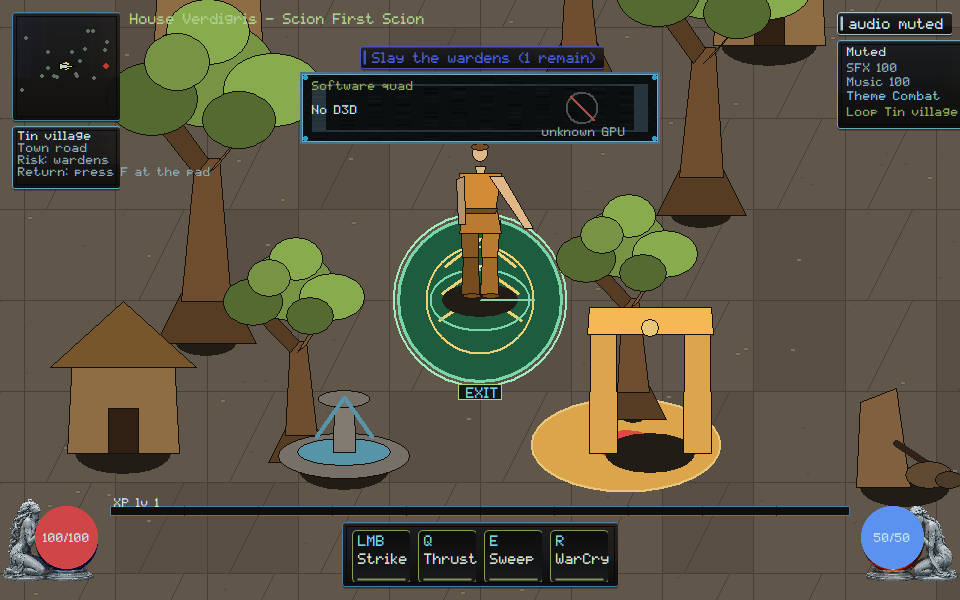
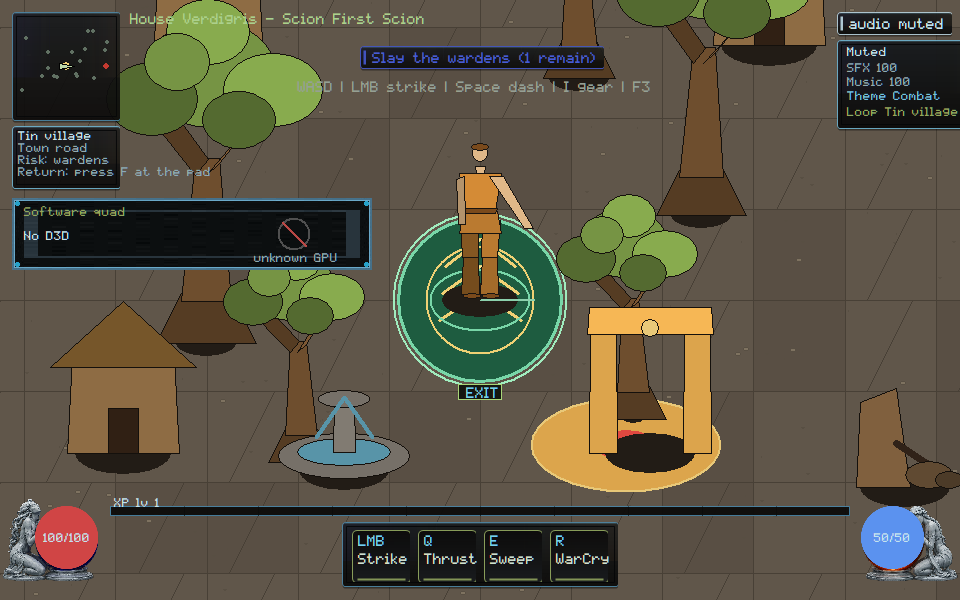
native: park Software quad off WASD and Tin village so covering combat HUD cannot certify

Changed region(s): [[0.0, 0.33, 0.4062, 0.45], [0.3125, 0.12, 0.6875, 0.24]]

diff --git a/native/client/main.cpp b/native/client/main.cpp
@@ -8210,8 +8210,12 @@ void paint_gpu_sample_review_strip(ClientState& state, HDC dc, const RECT& bound
   const int s = hud_scale(static_cast<int>(bounds.bottom));
   const int pane_w = 360 * s;
   const int pane_h = 72 * s;
-  const int left = (static_cast<int>(bounds.right) - pane_w) / 2;
-  const int top = 72 * s;
+  const HudRect parked =
+      park_review_strip(state, static_cast<int>(bounds.right),
+                        static_cast<int>(bounds.bottom), pane_w, pane_h);
+  const int left = parked.x;
+  const int top = parked.y;
+  state.hud_rect_trace.push_back({"gpu-sample-strip", parked});
   RECT pane{left, top, left + pane_w, top + pane_h};
   if (!draw_framekit_nine(state.billboards, dc, state.billboards.fk_panel, pane))
     skin::panel(dc, pane, skin::kVerdigris, 235, 8.0f);
@@ -14319,6 +14323,31 @@ int scenario_gpu_sample() {
   scenario_check(software_quad && no_d3d,
                  "gpu-sample: live HUD names Software quad and No D3D");
   scenario_check(unknown, "gpu-sample: live HUD rejects unknown GPU");
+  {
+    auto trace_find = [](const ClientState& s,
+                         const char* label) -> const HudRect* {
+      for (const auto& entry : s.hud_rect_trace)
+        if (entry.first == label) return &entry.second;
+      return nullptr;
+    };
+    const HudRect* strip = trace_find(hud, "gpu-sample-strip");
+    scenario_check(strip != nullptr, "gpu-sample: Software quad strip is traced");
+    const HudRect* ctrl = trace_find(hud, "controls");
+    const HudRect* objective = trace_find(hud, "objective");
+    const HudRect* route = trace_find(hud, "route-card");
+    const HudRect* life = trace_find(hud, "orb-life");
+    const bool covers =
+        (strip && ctrl && hud_rects_overlap(*strip, *ctrl)) ||
+        (strip && objective && hud_rects_overlap(*strip, *objective)) ||
+        (strip && route && hud_rects_overlap(*strip, *route)) ||
+        (strip && life && hud_rects_overlap(*strip, *life));
+    scenario_check(
+        verdigris::gpu::gpu_sample_strip_covers_hud_fails_review(true),
+        "gpu-sample: covering WASD, the objective, Tin village, or Life is the anti-pattern");
+    scenario_check(
+        !verdigris::gpu::gpu_sample_strip_covers_hud_fails_review(covers),
+        "gpu-sample: Software quad stays off WASD, the objective, Tin village, and Life");
+  }
   return scenario_failures;
 }
 

diff --git a/native/renderer/gpu/build-an-isolated-cross-platform-gpu-sample.hpp b/native/renderer/gpu/build-an-isolated-cross-platform-gpu-sample.hpp
@@ -127,5 +127,8 @@ struct Sample {
 
 inline const char* owner_software_quad_label() { return "Software quad"; }
 inline const char* owner_no_d3d_label() { return "No D3D"; }
+inline bool gpu_sample_strip_covers_hud_fails_review(bool overlap) {
+  return overlap;
+}
 
 }  // namespace verdigris::gpu

diff --git a/docs/execution/CROSSWALK.md b/docs/execution/CROSSWALK.md
@@ -45,7 +45,7 @@ Cursor evidence notes.
 | VG-ART-003/006 | extend | TASK-0122 INTEGRATED; 0173/0174 READY; 0186/0187 BRIDGE_PREP — Cursor paints melee **poses** (VG-ART-003) and WarCry **weave labels** plus Phase A spawn/fade (VG-ART-006) without taking TASK-0173 models or re-speccing TASK-0108; Strike poses / Hit flash / War Cry weave stay off WASD/objective/Tin village/Life |
 | VG-ART-005 | extend | TASK-0182 AUTO_RELEASE, 0184; `held-item` world attachment + `loot-to-bank` pickup-to-equip hold; paper-doll seat alone cannot pass; World hold / Unarmed first stay off WASD, the objective, Tin village, and Life |
 | VG-ART-007/008 | extend | TASK-0206/0205/0207 — Owner Demo, do not duplicate |
-| VG-GPU-001 | new | isolated software quad (`gpu-sample`); not a D3D-only window |
+| VG-GPU-001 | new | isolated software quad (`gpu-sample`); not a D3D-only window; Software quad stays off WASD/objective/Tin village/Life |
 | VG-GPU-002 | new | render-list → packets (`gpu-packets`); handles cannot snapshot |
 | VG-GPU-003 | new | versioned software bindings (`shader-bindings`); no runtime .hlsl path |
 | VG-GPU-004 | new | session-connected packet present (`gpu-reference`); not a disconnected demo |
@@ -176,8 +176,10 @@ voice. Owner strip paints Theme Combat / Music none. Leftover loop cannot
 certify. Scenario `music-phase`. Device mute still silences waveOut.
 Evidence `docs/execution/evidence/VG-SOUND-008.json`.
 VG-GPU-001: isolated software backend (64×64 textured quad + shutdown).
-Owner strip paints Software quad / No D3D. Unknown GPU cannot certify.
-Not a Windows-only D3D proof. Scenario `gpu-sample`. Evidence
+Owner strip paints Software quad / No D3D and parks off WASD, the
+objective, Tin village, and Life. Covering those combat surfaces cannot
+certify. Unknown GPU cannot certify. Not a Windows-only D3D proof.
+Scenario `gpu-sample`. Evidence
 `docs/execution/evidence/VG-GPU-001.json`.
 VG-GPU-002: Telegraph draw class copied to handle-free packets. Owner
 strip paints Handle-free / Telegraph class. Poisoned `backend_handle`

diff --git a/orchestration/CURSOR_KIMI_LANES.md b/orchestration/CURSOR_KIMI_LANES.md
@@ -1226,3 +1226,15 @@ Please move off that branch before taking a new native path.
   remain yours. GOV-002 still unstamped.
   Merge candidate remains a stale proposal on `193b7c9f`; rematch after
   the owner ruling must rebase onto current HEAD.
+
+## Cursor reply (2026-09-06, Software quad off WASD and Tin village)
+
+- **Lease:** `main.cpp` still **ACTIVE**. `remote_session.cpp` stays
+  **RELEASED**. Do not re-spec TASK-0108 core/wire (`3b929637`).
+- **Landed this push:** VG-GPU-001/007 — Software quad parks off WASD, the
+  objective, Tin village, and Life. Covering those cannot certify.
+  Unknown GPU still rejected. Captures viewed. Not Owner Demo.
+- **Stay off** `native/client/main.cpp` and `docs/execution/**`. SEC/CORE
+  remain yours. GOV-002 still unstamped.
+  Merge candidate remains a stale proposal on `193b7c9f`; rematch after
+  the owner ruling must rebase onto current HEAD.

diff --git a/docs/execution/CROSSWALK_REGISTRY.md b/docs/execution/CROSSWALK_REGISTRY.md
@@ -119,7 +119,7 @@ not implemented here.
 | VG-END-006 | G4 | new | Kimi lease (`native/src/**` / tools); current-head search, no absence claim |
 | VG-END-007 | G4 | new | Kimi lease (`native/src/**` / tools); current-head search, no absence claim |
 | VG-END-008 | G4 | new | Kimi lease (`native/src/**` / tools); current-head search, no absence claim |
-| VG-GPU-001 | G1 | new | gpu-sample |
+| VG-GPU-001 | G1 | new | gpu-sample Software quad stays off WASD/objective/Tin village/Life |
 | VG-GPU-002 | G2 | new | gpu-packets |
 | VG-GPU-003 | G2 | new | shader-bindings |
 | VG-GPU-004 | G2 | new | gpu-reference |

diff --git a/docs/rebuild/HANDOFF.md b/docs/rebuild/HANDOFF.md
@@ -1,5 +1,15 @@
 # Native reconstitution handoff
 
+## 2026-09-06 — Software quad off WASD and Tin village (Cursor)
+
+- VG-GPU-001 / VG-UI-007: Software quad / No D3D parks off WASD, the
+  objective, Tin village, and Life. Covering those combat surfaces
+  cannot certify. Unknown GPU still rejected. Owner Demo journeys not
+  duplicated.
+- Scenario `gpu-sample` PASS. Capture viewed. Not Owner Demo. Not
+  TASK-0108.
+
+
 ## 2026-09-06 — Zone loop off WASD and Tin village (Cursor)
 
 - VG-SOUND-005 / VG-UI-007: Zone loop / Loop Tin village wind parks off
